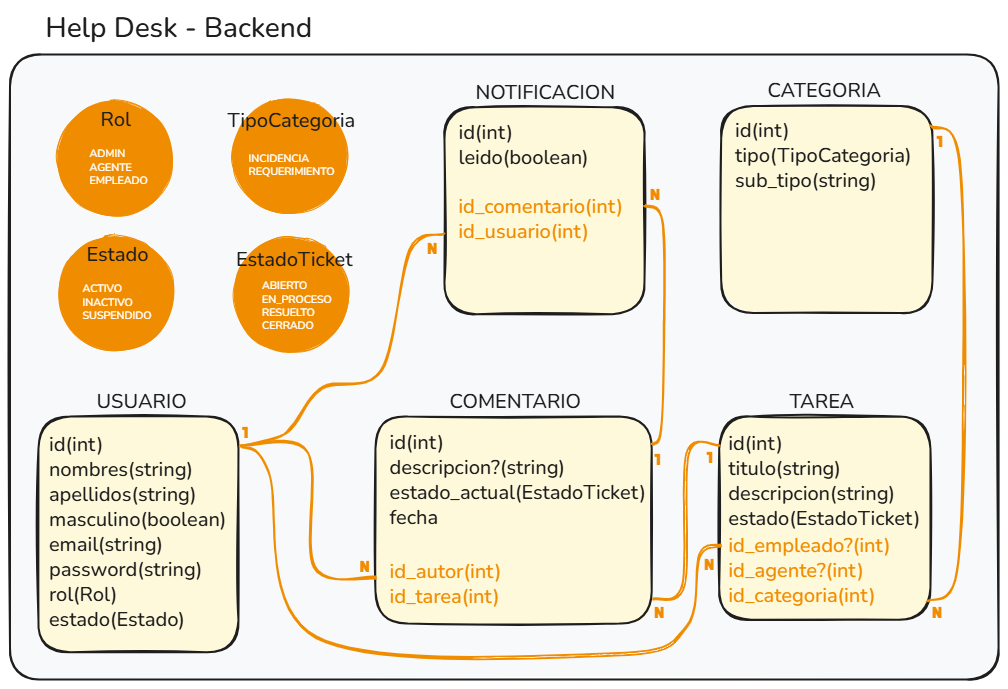
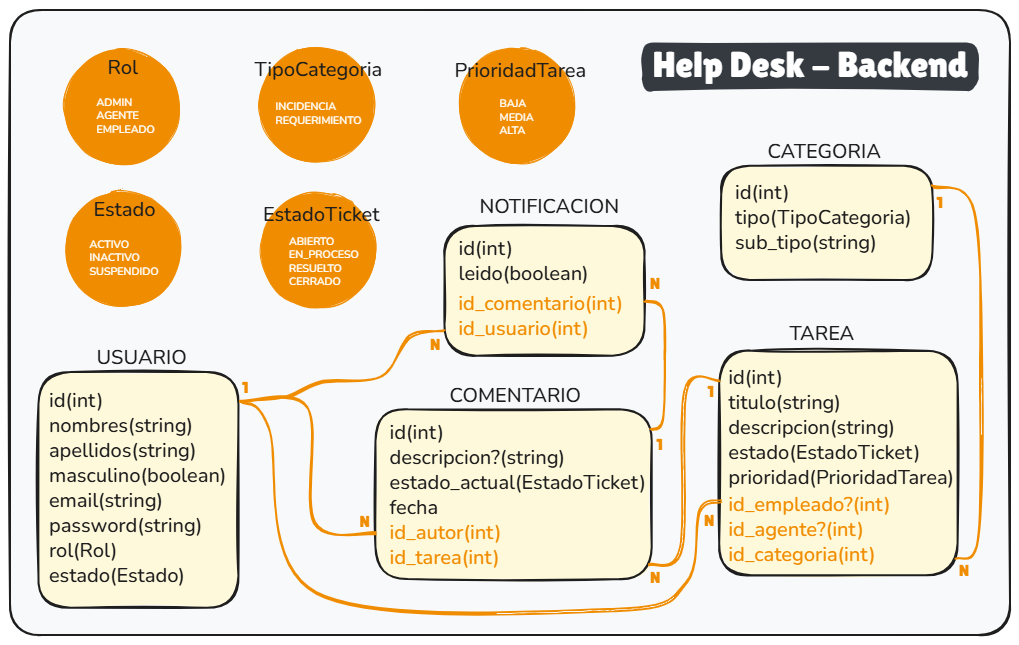
feat(tarea)add metricas and fixes

diff --git a/src/tareas/tareas.service.ts b/src/tareas/tareas.service.ts
@@ -33,12 +33,12 @@ export class TareasService {
     private readonly comentarioService: ComentariosService,
   ) {}
 
-  findAll(usuario: UsuarioAutenticado) {
+  async findAll(usuario: UsuarioAutenticado) {
     // Los empleados solo ven las tareas que reportaron.
     const where =
       usuario.rol === Rol.EMPLEADO ? { id_empleado: usuario.id } : {};
 
-    return this.prisma.tarea.findMany({
+    return await this.prisma.tarea.findMany({
       where,
       include: relacionesTarea,
       orderBy: { created: 'desc' },
@@ -96,7 +96,10 @@ export class TareasService {
 
   async update(id: number, dto: UpdateTareaDto, usuario: UsuarioAutenticado) {
     const tarea = await this.prisma.tarea.findUnique({ where: { id } });
-
+    if (tarea?.id_agente && dto.id_agente !== usuario.id)
+      throw new BadRequestException(
+        `La Tarea ya esta asignada al Agente con id=${tarea.id_agente}`,
+      );
     if (!tarea) {
       throw new NotFoundException(`No existe la tarea con id ${id}.`);
     }
@@ -193,5 +196,41 @@ export class TareasService {
     }
 
     return tareaActualizada;
+  }
+
+  async metricas() {
+    // 1. Agrupamos y contamos las tareas
+    const conteosAgrupados = await this.prisma.tarea.groupBy({
+      by: ['id_categoria', 'estado'],
+      _count: {
+        _all: true, // Cuenta el total de registros en cada grupo
+      },
+    });
+
+    // 2. Traemos las categorías para asociar los IDs con sus nombres/subtipos reales
+    const categorias = await this.prisma.categoria.findMany({
+      select: {
+        id: true,
+        tipo: true,
+        sub_tipo: true,
+      },
+    });
+
+    // Creamos un mapa rápido para buscar categorías por ID de forma eficiente O(1)
+    const categoriaMap = new Map(categorias.map((cat) => [cat.id, cat]));
+
+    // 3. Formateamos la respuesta final combinando los datos
+    const reporteFinal = conteosAgrupados.map((grupo) => {
+      const categoriaInfo = categoriaMap.get(grupo.id_categoria);
+      return {
+        // id_categoria: grupo.id_categoria,
+        categoria_tipo: categoriaInfo?.tipo || 'DESCONOCIDO',
+        categoria_sub_tipo: categoriaInfo?.sub_tipo || 'Sin Subcategoría',
+        estado: grupo.estado,
+        total_tickets: grupo._count._all,
+      };
+    });
+
+    return reporteFinal;
   }
 }

diff --git a/src/tareas/tareas.controller.ts b/src/tareas/tareas.controller.ts
@@ -17,7 +17,7 @@ import { RolesGuard } from '../common/guards/roles.guard.js';
 import { CreateTareaDto } from './dto/create-tarea.dto.js';
 import { UpdateTareaDto } from './dto/update-tarea.dto.js';
 import { TareasService } from './tareas.service.js';
-import { ApiBody, ApiTags } from '@nestjs/swagger';
+import { ApiBody, ApiOperation, ApiTags } from '@nestjs/swagger';
 
 type RequestConUsuario = Request & {
   user: {
@@ -32,6 +32,7 @@ type RequestConUsuario = Request & {
 export class TareasController {
   constructor(private readonly tareasService: TareasService) {}
 
+  @ApiOperation({ summary: 'Registra una nueva Tarea.' })
   @Post()
   @Roles(Rol.EMPLEADO)
   @ApiBody({
@@ -51,11 +52,23 @@ export class TareasController {
     return this.tareasService.create(dto, req.user);
   }
 
+  @ApiOperation({ summary: 'Lista todas las Tareas existentes.' })
   @Get()
   findAll(@Req() req: RequestConUsuario) {
     return this.tareasService.findAll(req.user);
   }
 
+  @ApiOperation({
+    summary:
+      'Muestra un Reporte de Métricas sobre categorías y estados del momento.',
+  })
+  @Get('metricas')
+  @Roles(Rol.ADMIN, Rol.AGENTE)
+  metricas() {
+    return this.tareasService.metricas();
+  }
+
+  @ApiOperation({ summary: 'Muestra una tarea, identificada por su ID.' })
   @Get(':id')
   findOne(
     @Param('id', ParseIntPipe) id: number,
@@ -64,6 +77,10 @@ export class TareasController {
     return this.tareasService.findOne(id, req.user);
   }
 
+  @ApiOperation({
+    summary:
+      'Selecciona una tarea por su ID, y le asigna un Agente para resolverla.',
+  })
   @Patch(':id')
   @Roles(Rol.ADMIN, Rol.AGENTE)
   @ApiBody({

diff --git a/prisma/seed.ts b/prisma/seed.ts
@@ -216,7 +216,7 @@ async function main() {
       estado: EstadoTicket.EN_PROCESO,
       prioridad: PrioridadTarea.ALTA,
       id_empleado: empleado.id,
-      id_agente: admin.id, // Asignado al admin por alta prioridad
+      id_agente: agente.id,
       id_categoria: catSeguridad.id,
     },
   });

diff --git a/README.md b/README.md
@@ -103,3 +103,5 @@ No se utiliza Nodemailer ni un proveedor de correo electrónico para las notific
         `git commit -m 'refactor(users): simplify password validation logic'`
         (Simplifica la lógica para validar contraseñas)
 
+### Acuerdo de lógica del negocio:
+- Los responsables para asignar tickets de una Tarea son usuarios con rol de `ADMIN`, y también usuarios con rol de `AGENTE`, siempre que la Tarea no tenga un agente asignado.
